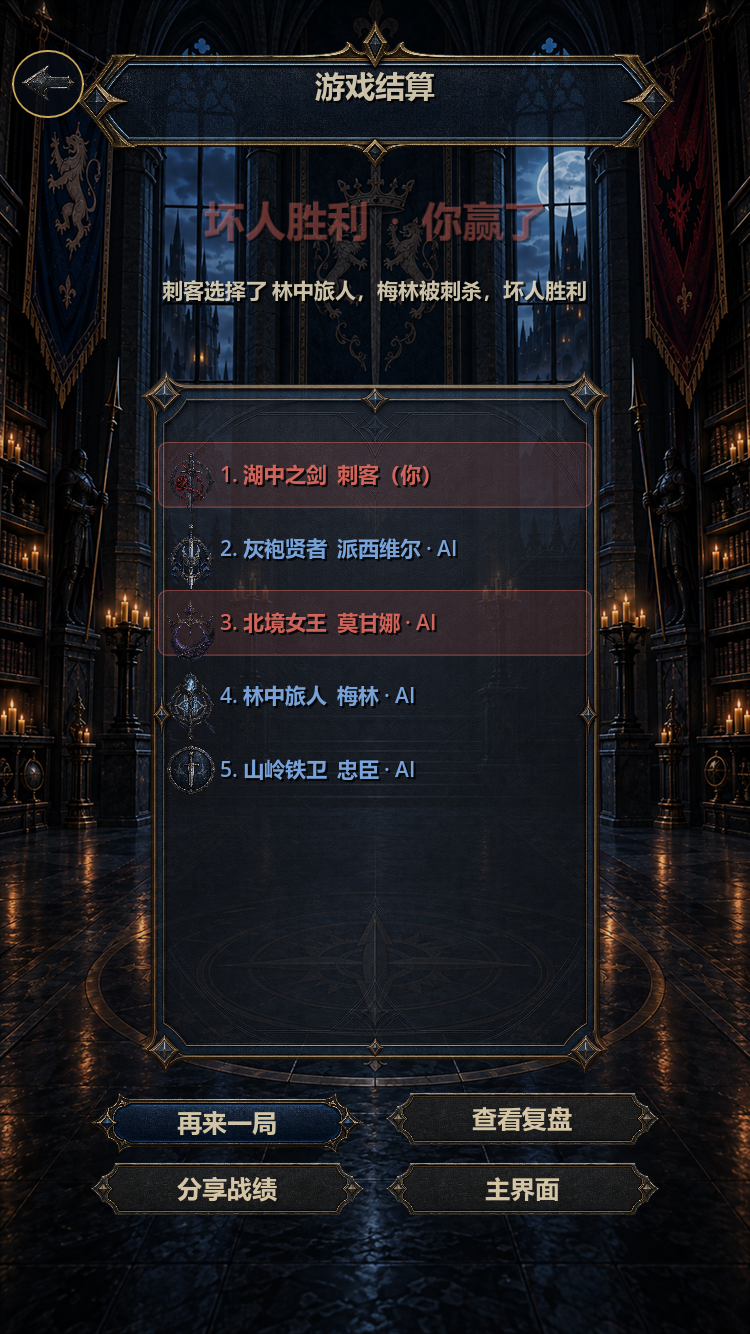
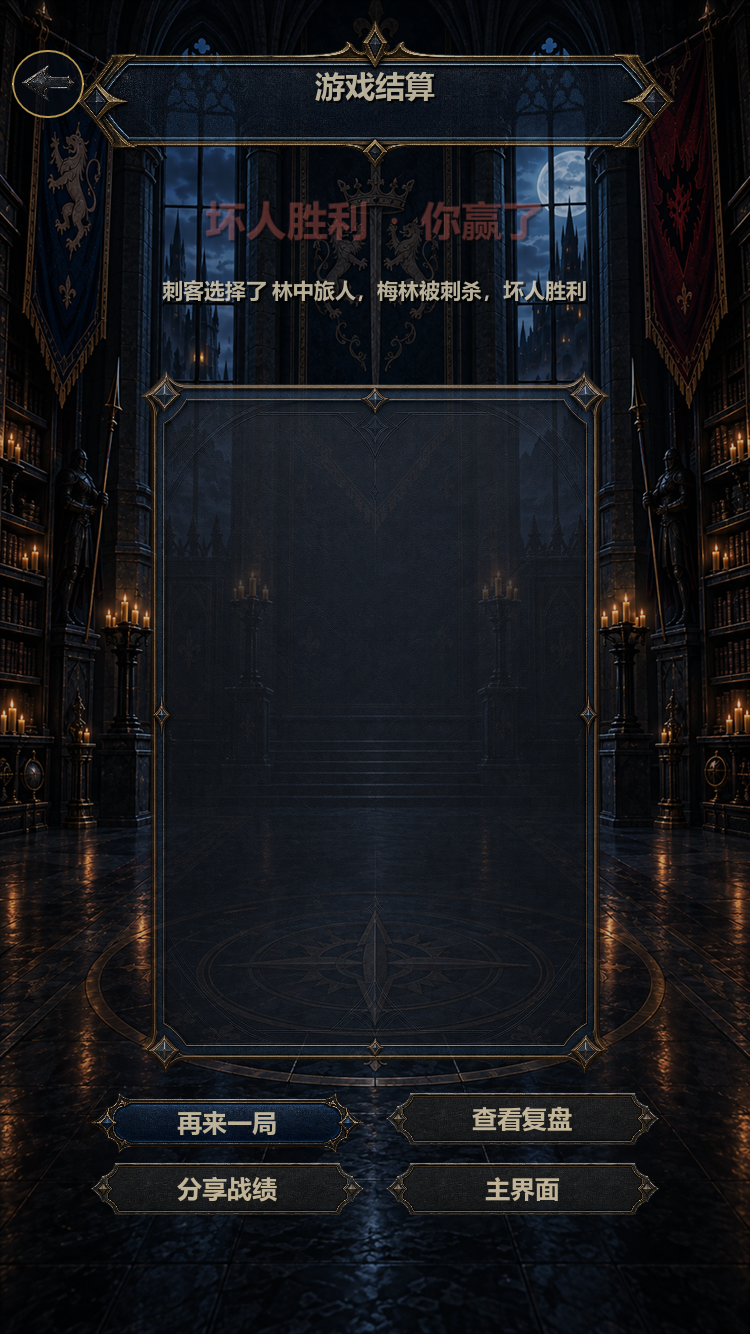
Effects, third batch: cards dealt out, identity card turns over before its text appears, voters pop in, result roster slides in

diff --git a/文档/开发进度.md b/文档/开发进度.md
@@ -37,8 +37,9 @@
    - 第三轮：主页本地练习的人数与按钮收进同一面板；任务进度条“需2败”改为红色挂牌；身份页卡片下半部显示夜晚看到的人；组队页“已选 x / y”用大号金字；任务页等待时显示沙漏徽章，下半屏排出本轮队员头像；结算页胜方整行高亮；好友邀请横幅改为金框底板；登录页“适龄提示”提高对比度。
    - 联机复核（2026-10-09）：起 8899 测试服务端跑 `smoke_network`、`smoke_lifecycle`、`smoke_friends`、10 人联机 `smoke_selfplay` 全部通过；用 `smoke_friends -- shots=…` 截好友页，修了邀请横幅文字溢出，空列表改为带框的空态并给出下一步按钮。
    - 动效（任务 004，Claude 直接实现）：换页淡入、按钮按压回弹、结果徽章弹出、失败/否决/输掉时抖动和震动、身份卡弹出、倒计时最后 10 秒图标脉冲、操作被拒轻微抖动；设置页加“震动”开关；新测试 `tools/smoke_effects.gd`。详见 `文档/agent-bridge/reports/004-client-feedback-effects.md`。
+   - 动效第二、三批：轮到自己时页面上方弹出金色横幅“轮到你××了”并震动（结果页、结算页不弹，它们有自己的提示）；任务结果页按出牌逐张翻开（失败牌最后翻）；发言者的蓝圈缓慢呼吸；小按钮也有按压回弹；发牌页的牌依次发出；身份页先显示牌背再翻开，文字随后淡入；投票结果头像依次弹出；结算名单逐行滑入。
 2. **素材复核**：已在实际显示尺寸下看过。段位 6 在 32px 下可辨认，反对徽章在 210px 下清楚。段位 1、2 在 32px 下颜色接近，已由 Codex 重画为 `tier-1-bronze-v2`、`tier-2-silver-v2`（任务 010，`T.tier_icon` 优先用 v2）；同一任务还出了 `mission-waiting-emblem`（任务页等待）和 `rules-scroll-icon`（房间页“规则详情”）。Codex 默认模型 gpt-6.1-sol 对 ChatGPT 账号不可用，需加 `--model gpt-6-astra`。
 3. **PostgreSQL 实测**：`test/postgres.test.js` 已覆盖好友、私信、好友榜、最近同局的 SQL，需要在有数据库的环境跑一次。
-4. **旧任务单**：`文档/agent-bridge/tasks/003`（LLM 玩家竞技场）、`008`（决策提供者）是按旧分支架构（`rules.ts`、`ai.ts`）写的，未执行或未完成，需要按 main 的 `avalon.room.ts` / `avalon.ai.ts` 重写后再派给 Codex。旧分支上那份未提交的 LLM 竞技场代码（`src/llm/`、`scripts/llm-arena.js`）没有移植。
+4. **LLM 玩家**：旧任务单 003 / 003-fix1 已按 main 重写为任务 011，由 Codex 完成并经 011-fix1 修正（提示与模型 JSON 的座位号统一从 1 开始，与界面和真人发言一致）。`src/llm/`（provider / prompt / agent）、`scripts/llm-arena.js`、`test/llm.test.js`，房间只新增 `pendingSeats()`、`viewOf()`。用法见服务端 README“LLM 玩家与竞技场”。旧任务单 008（Jev 决策后端）已重写为任务 012。尚未用真实模型跑过竞技场（需要本地 key 文件）；接入联机房间（让 LLM 代替 AI 座位）是后续任务。
 5. **本机环境**：Windows 防火墙服务（MpsSvc）处于停止状态，Codex 的 elevated 沙箱无法执行命令；任务 009 是在用户同意下以 `--sandbox danger-full-access` 运行的。恢复沙箱需管理员执行 `Start-Service MpsSvc`。
 6. **本机目录**：`阿瓦隆/` 仍在旧分支，切到 main 前需先 `git stash -u` 暂存他人未提交的 Cocos 改动（main 已把 Cocos 移到 `归档/`）。本次工作在工作树 `阿瓦隆-main`、`阿瓦隆-social` 中完成。
